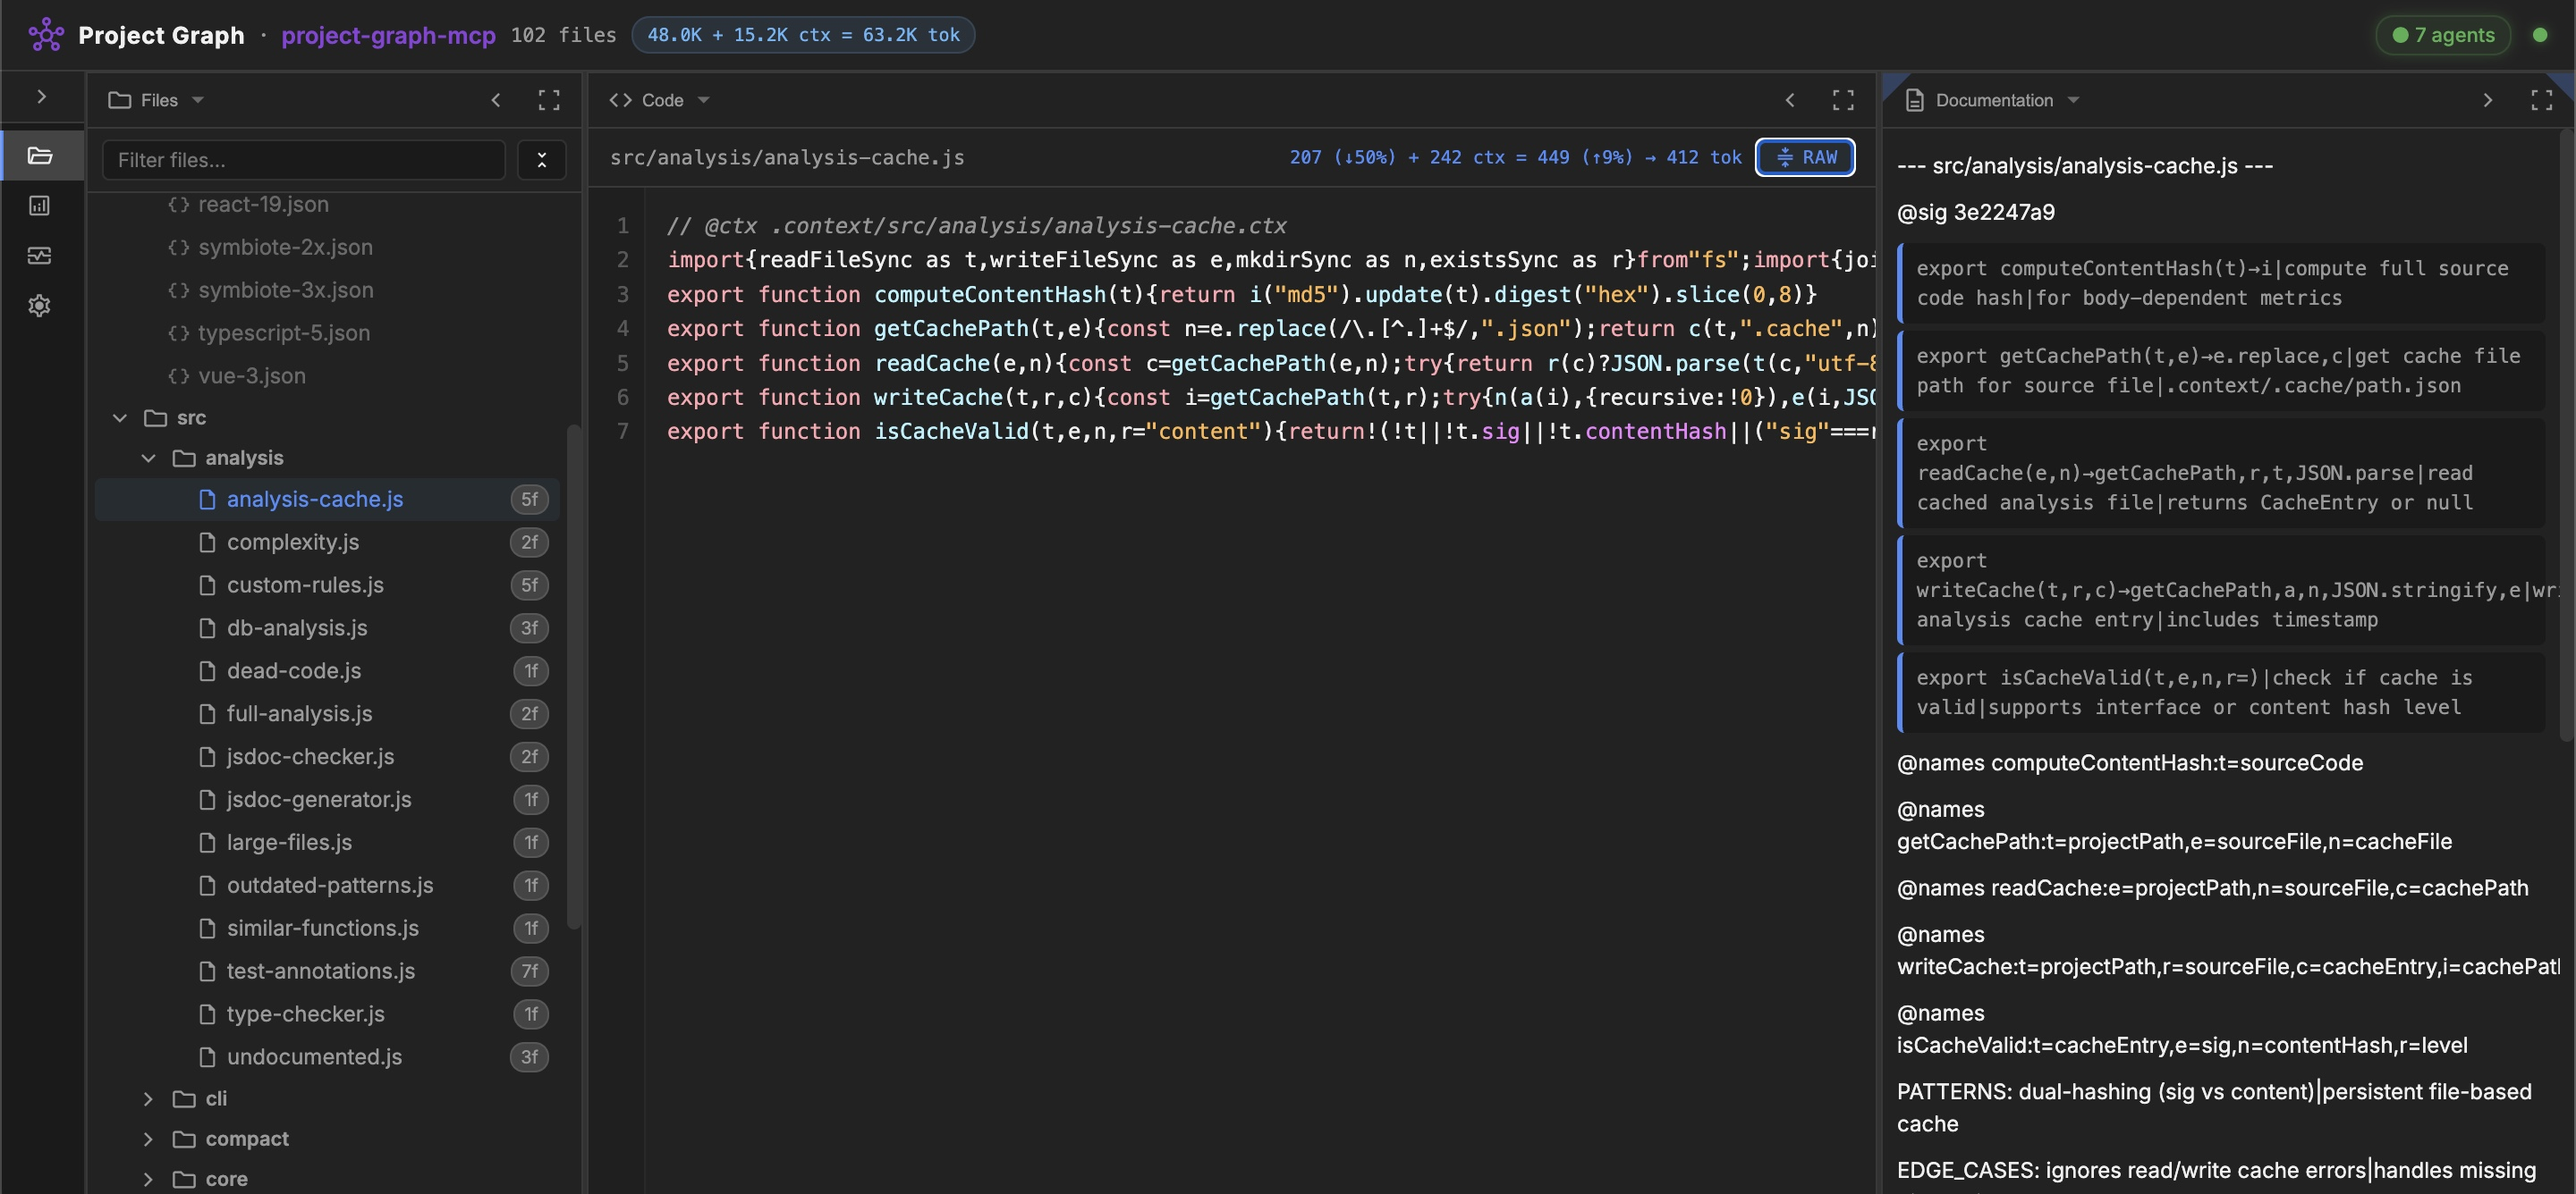
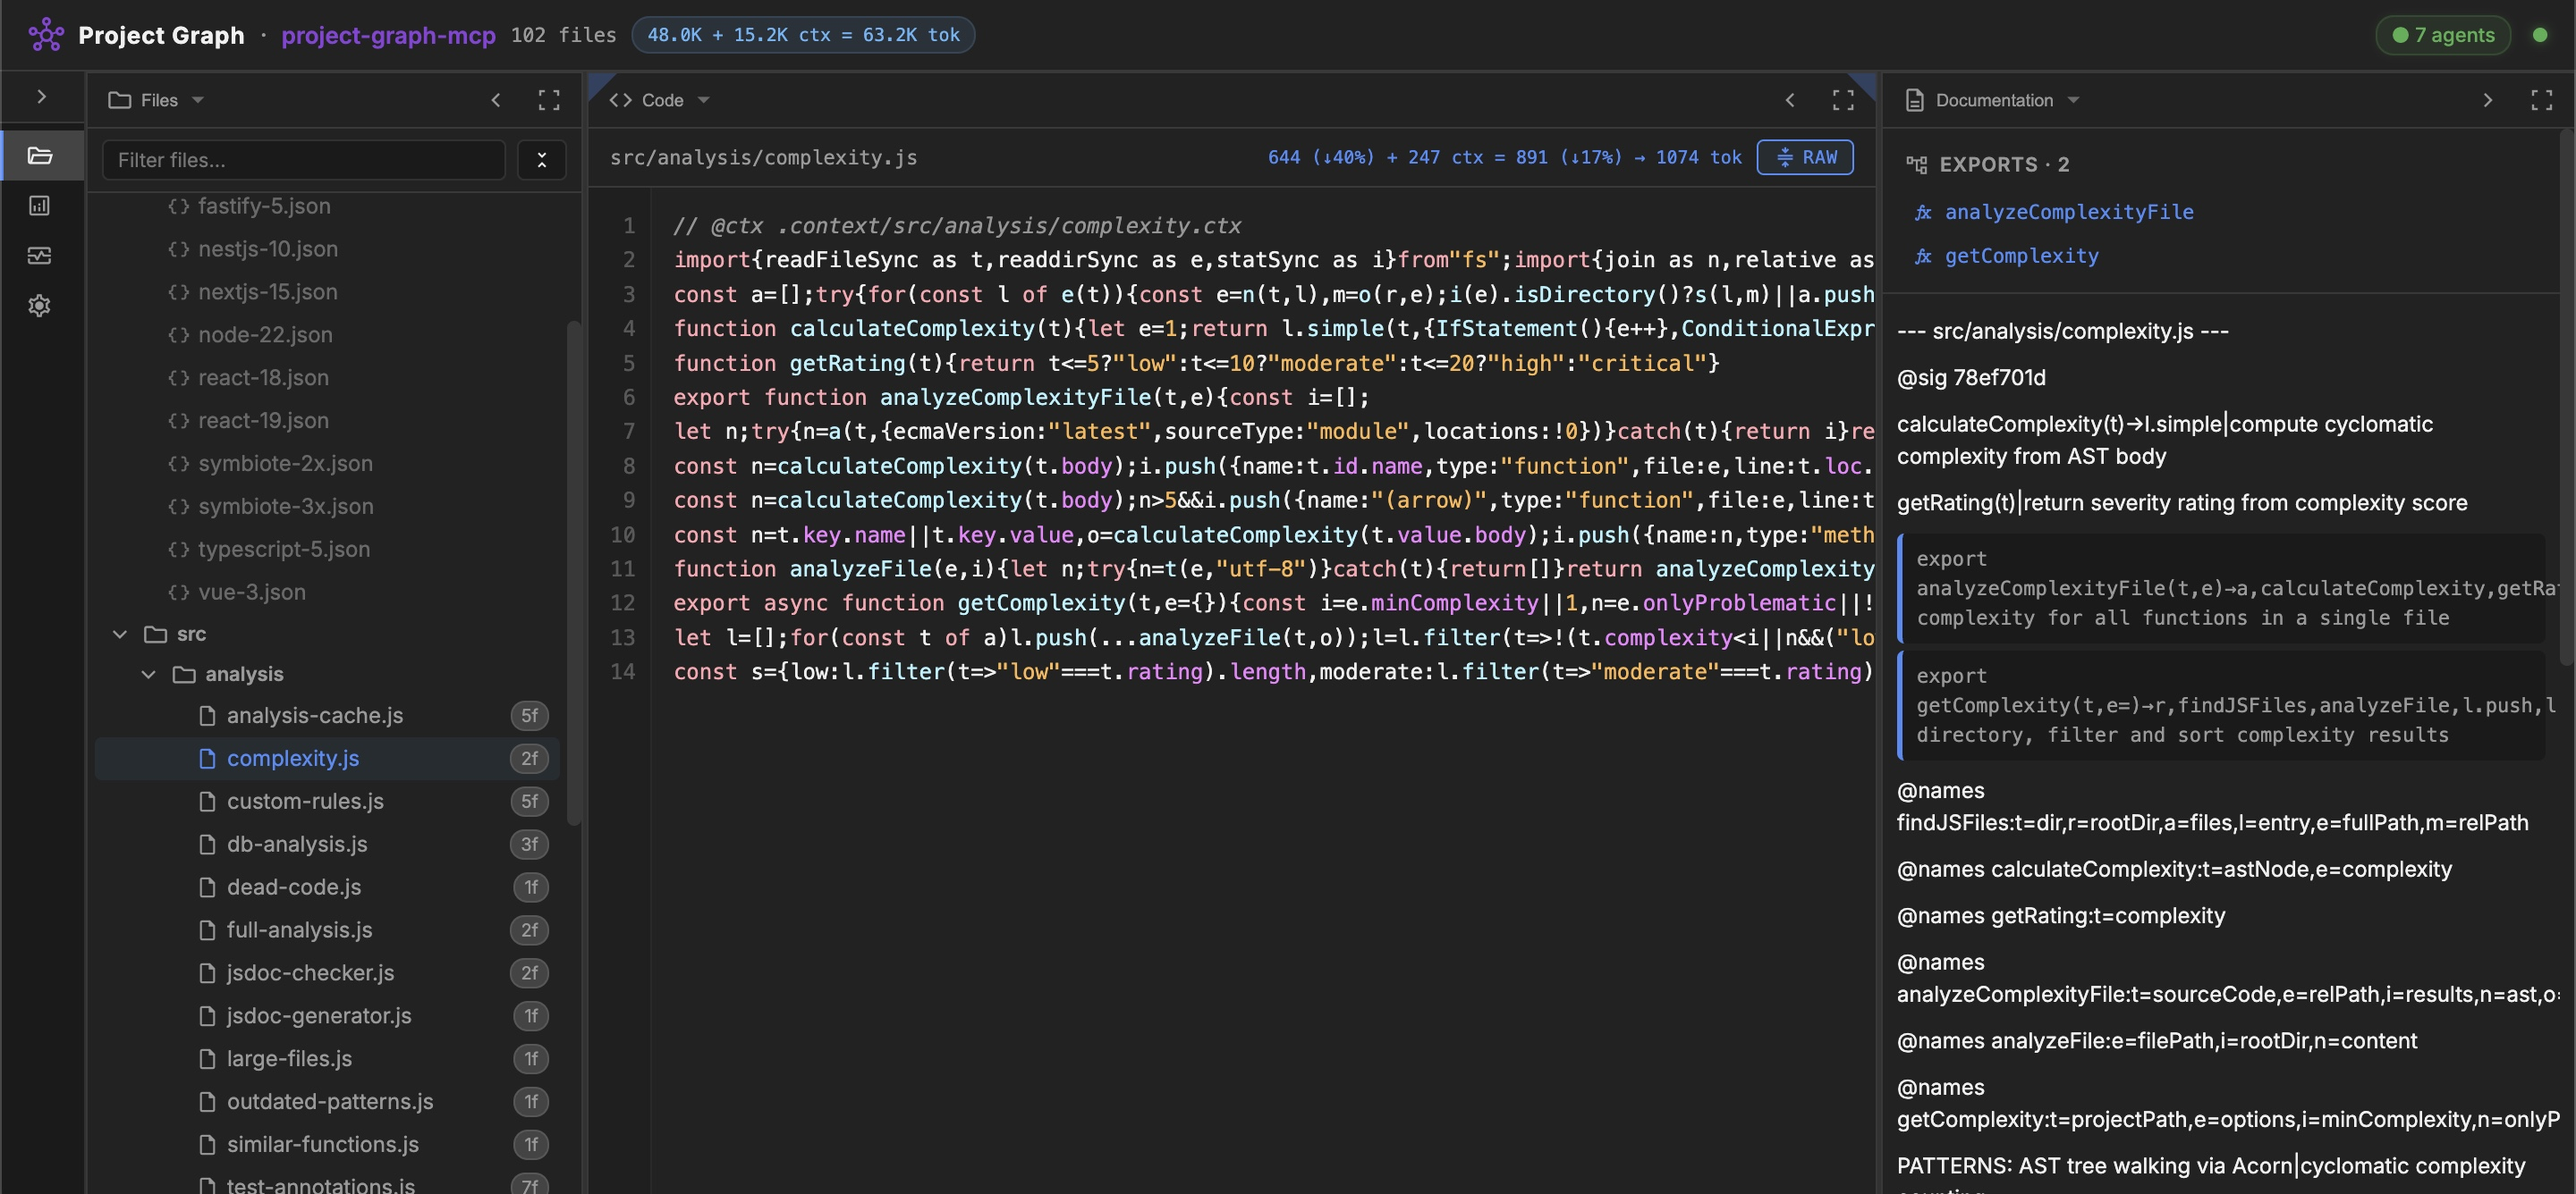
docs: rewrite README hero — compact mode as main feature
- Hook: 'Maximize your AI agent's context window'
- Core value: fewer tokens → more files in context → deeper understanding
- .ctx injected only in focus zone (not globally)
- Dashboard details moved below the fold
- New screenshots with better compression stats (complexity.js ↓40%)

diff --git a/README.md b/README.md
@@ -4,14 +4,16 @@
 
 # project-graph-mcp
 
-**Your entire codebase in one context window.** An MCP server that compresses source code **10-50x** via AST-based minification — agents read, navigate, and edit your project without seeing a single irrelevant line. Includes a built-in Web Dashboard for visual code exploration.
+**Maximize your AI agent's context window.** An MCP server that lets agents read and edit your codebase in **compact mode** — minified source with all variable names preserved. Code tokens drop **↓40%**, and `.ctx` documentation is injected only in the focus zone. Fewer tokens per file → more files fit in context → **deeper understanding of your codebase**.
 
-![Expanded view — beautified code with JSDoc from .ctx files](docs/img/explorer-expanded.jpg)
+![Expanded view — formatted code with JSDoc, 28+ lines per function](docs/img/explorer-expanded.jpg)
 
-![Compact view — minified source as agents see it (7 lines vs 30+)](docs/img/explorer-compact.jpg)
+![Compact mode — same file, 14 lines total, ↓40% tokens. Agents read and edit this directly.](docs/img/explorer-compact.jpg)
+
+Includes a built-in [Web Dashboard](#web-dashboard) (`npx project-graph-mcp serve`) to visualize token metrics and compact ⇄ raw code in real-time.
 
 > [!TIP]
-> **18 MCP tools.** Add one line to your MCP config and the server downloads itself on the next IDE restart.
+> **18 MCP tools, zero config.** Add one line to your MCP config and the server downloads itself on the next IDE restart.
 
 ### Project Skeleton (10-50x compression)
 
